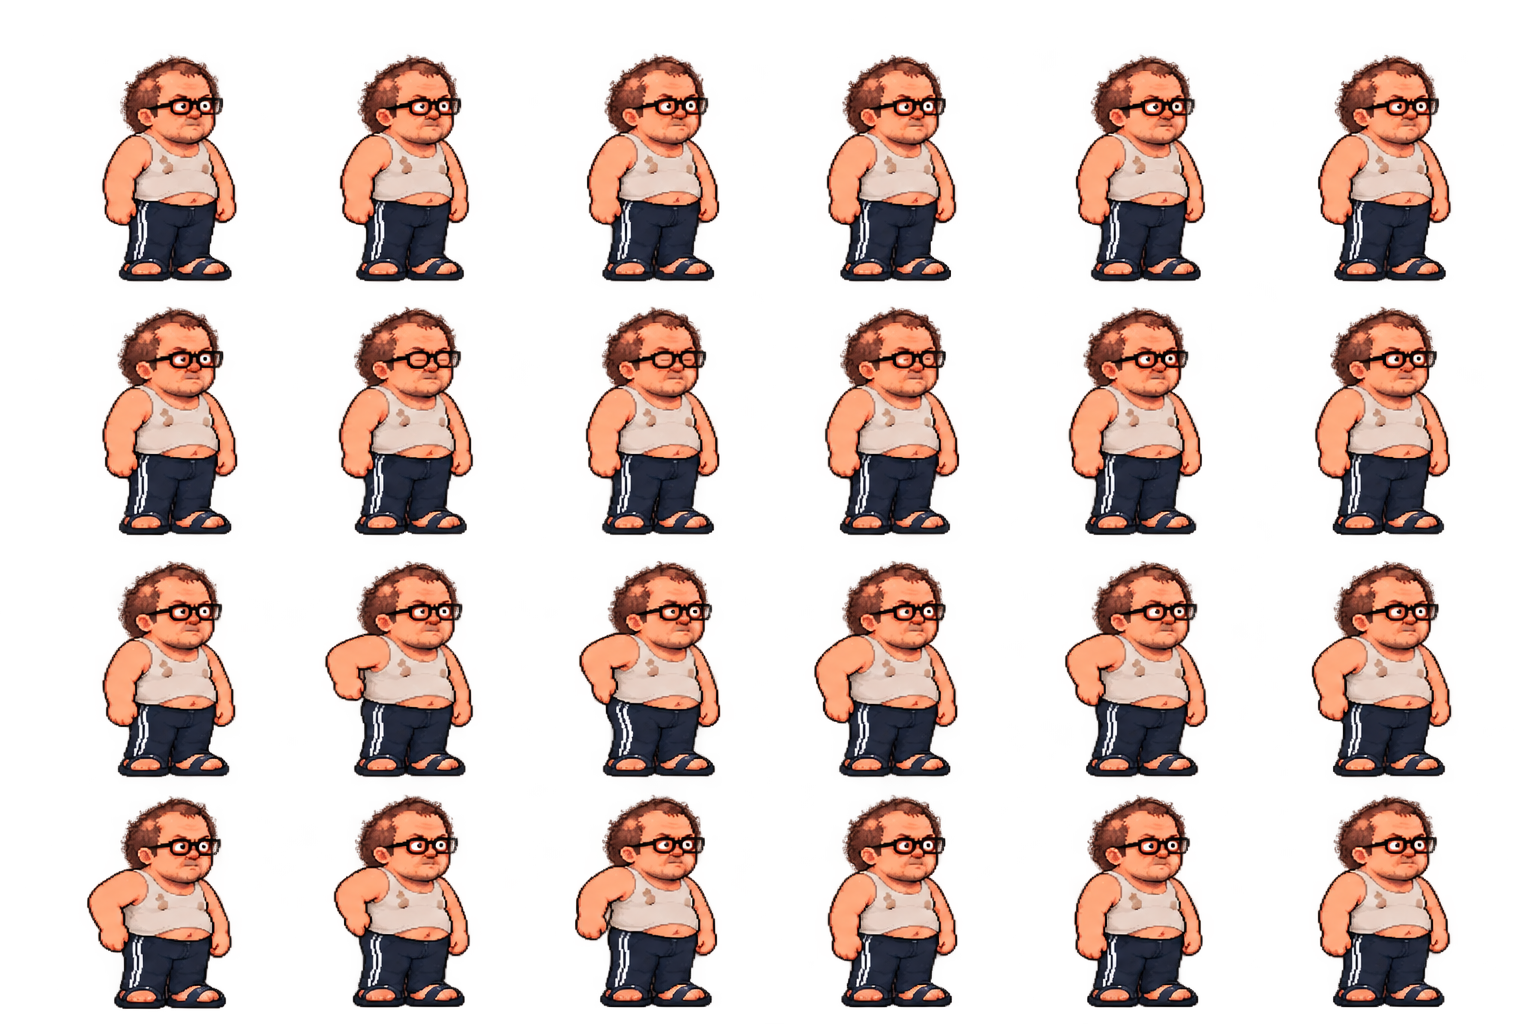
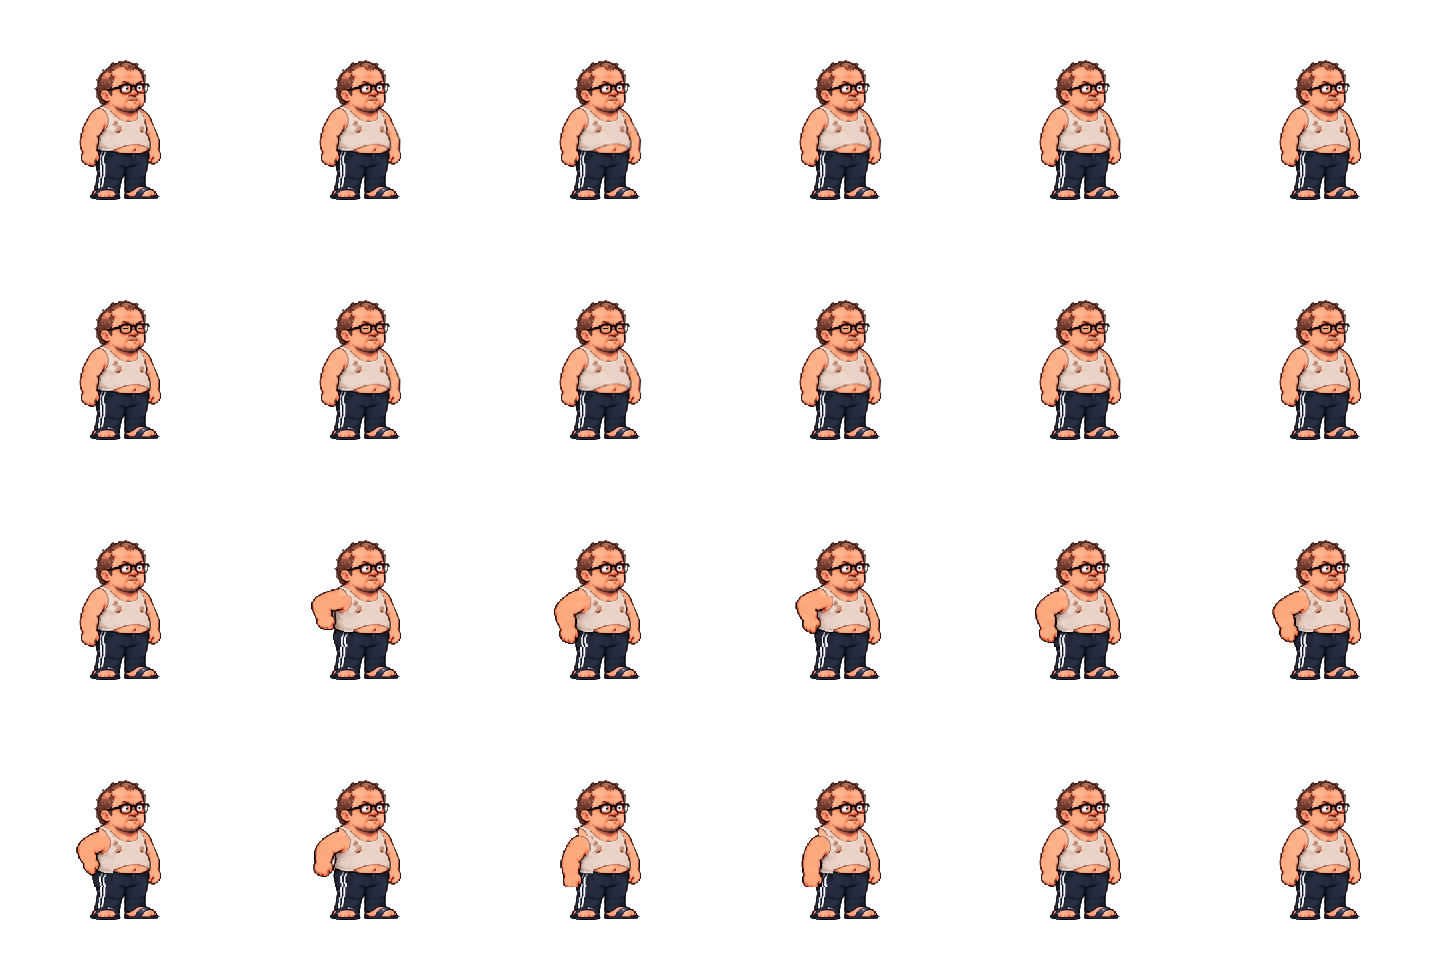
Статика: чистый лист дыхания и моргания, почёсывание убрано
Новый лист уже в ячейках 240 px и попиксельно согласован: дыхание 1–6,
моргание 7–12 (тот же кадр с закрытыми глазами). Режим native + center:
alpha в 0/255 и один общий сдвиг на 3 px влево, чтобы поза стояла как в
остальных листах (центр 117, ступни на 199; рост и ширина совпадают).
Ряды почёсывания не берём, анимация «Чесать жопу» удалена из движка,
кнопок и автожизни.

diff --git a/index.html b/index.html
@@ -9,7 +9,7 @@
 <div class="workspace"><section class="stage" aria-label="Анимационный экран"><div class="stage-top"><span><i class="dot"></i><span id="live">ЖИВЁТ СВОЮ ЖИЗНЬ</span></span><span>240 × 240 PX</span></div><div class="device"><canvas id="screen" width="240" height="240" aria-label="Игоряша в комнате"></canvas><div class="device-footer">SMALLTV PRO · ИГОРЯШГОЧИ</div></div><p class="scale-note">Персонаж ≈ 140 px · масштаб без сглаживания</p><div id="error" role="alert"></div></section>
 <aside><div class="intro"><div class="tag">Проверка спрайтшитов</div><h1>Один день Игоряши</h1><p>Пока ты смотришь, он занимается своими делами. Или выбери, чем ему заняться.</p></div>
 <div class="card"><div class="row"><div><div class="label">Сейчас</div><div id="status" class="status" aria-live="polite">Загружается…</div></div><span id="mode" class="mode">АВТО</span></div><div class="progress"><i id="progress"></i></div>
-<div class="actions"><button data-action="idle">Стоять <small>дышит и моргает</small></button><button data-action="scratch">Чесать жопу <small>чешет три раза</small></button><button data-action="walk">Походить <small>готовые 24 кадра</small></button><button data-action="hungry">Просить хинкал <small>стучит в экран</small></button><button data-action="eat">Поесть <small>похлёбка, три подхода</small></button><button data-action="sick">Заболеть <small>тошнит</small></button><button data-action="love">Акт любви <small>кукла, обнимашки, бах</small></button><button data-action="tanks">Танки <small>катка, потом победа или ярость</small></button><button data-action="poop">Посрать <small>готовые 16 кадров</small></button><button id="clean">Убрать <small>очистить пол</small></button></div>
+<div class="actions"><button data-action="idle">Стоять <small>дышит и моргает</small></button><button data-action="walk">Походить <small>готовые 24 кадра</small></button><button data-action="hungry">Просить хинкал <small>стучит в экран</small></button><button data-action="eat">Поесть <small>похлёбка, три подхода</small></button><button data-action="sick">Заболеть <small>тошнит</small></button><button data-action="love">Акт любви <small>кукла, обнимашки, бах</small></button><button data-action="tanks">Танки <small>катка, потом победа или ярость</small></button><button data-action="poop">Посрать <small>готовые 16 кадров</small></button><button id="clean">Убрать <small>очистить пол</small></button></div>
 <div class="toolbar"><button id="auto" class="secondary active" aria-pressed="true">Автожизнь</button><button id="pause" class="secondary" aria-pressed="false">Пауза</button><button id="step" class="secondary">Кадр →</button></div></div>
 <div class="card settings"><label>Скорость <span class="row"><input id="speed" type="range" min="0.25" max="2" step="0.25" value="1"><output id="speedValue">1×</output></span></label><label>Время суток<select id="light"><option value="auto">Авто · по часам</option><option value="morning">Утро</option><option value="day">День</option><option value="night">Ночь</option></select></label><label>Фон<select id="background"><option value="room">Комната</option><option value="gray">Серый</option><option value="light">Светлый</option><option value="dark">Тёмный</option><option value="checker">Прозрачность</option></select></label><label>Размер экрана<select id="zoom"><option value="1">240 px · 1×</option><option value="1.5" selected>360 px · 1.5×</option><option value="2">480 px · 2×</option></select></label><label>Сетка и линия пола<input id="grid" type="checkbox"></label><label>Реплики<input id="speech" type="checkbox" checked></label><label>Тряска экрана<input id="shake" type="checkbox" checked></label><div class="details"><span id="frame">кадр —</span><span>свет: <span id="lightNow">—</span></span><span id="poopCount">на полу: 0</span></div></div>
 <p class="hint">Спрайтшиты — PNG из <code>assets/sprites/</code>, собираются из <code>source/</code> скриптом <code>tools/build_sprites.py</code>. Кадр 240×240, ноги на линии пола. Кнопка действия отключает автожизнь.</p></aside></div>

diff --git a/js/animations.js b/js/animations.js
@@ -9,8 +9,8 @@
   const range = n => Array.from({ length: n }, (_, i) => i);
 
   const sheets = {
-    // 0–5 дыхание, 6–11 те же кадры с закрытыми глазами, 12–23 чешет жопу
-    idle:    { src: 'assets/sprites/idle.png',    cols: 6, frames: 24 },
+    // 0–5 дыхание, 6–11 те же кадры с закрытыми глазами
+    idle:    { src: 'assets/sprites/idle.png',    cols: 6, frames: 12 },
     hungry:  { src: 'assets/sprites/hungry.png',  cols: 4, frames: 16 },
     walk:    { src: 'assets/sprites/walk.png',    cols: 6, frames: 24 },
     poop:    { src: 'assets/sprites/poop.png',    cols: 4, frames: 16 },
@@ -25,7 +25,7 @@
   };
 
   // Статика: дышит кадрами 0–5 и иногда моргает. Кадр k+BLINK — это кадр
-  // дыхания k с пересаженными закрытыми веками, поэтому моргнуть можно на любой фазе.
+  // дыхания k с закрытыми глазами, поэтому моргнуть можно на любой фазе.
   const BREATH = [400, 300, 300, 400, 300, 300];
   const BLINK = 6, BLINK_MS = 100;
   function idleFrames(rand = Math.random) {
@@ -43,10 +43,6 @@
     }
     return frames;
   }
-  // Чешет жопу: заводит руку (12–13), чешет кадрами 14–17 три раза, опускает руку (18–23).
-  const scratchLoop = [14, 15, 16, 17];
-  const scratchSeq = [12, 13, ...scratchLoop, ...scratchLoop, ...scratchLoop, 18, 19, 20, 21, 22, 23];
-  const scratchMs = [300, 220, ...Array(12).fill(130), 220, 220, 200, 220, 260, 500];
   // Голод: стучит кулаком в экран (кадры 4–7) два раза подряд, потом показывает на рот и живот.
   const hungrySeq = [0, 1, 2, 3, 4, 5, 6, 7, 4, 5, 6, 7, 8, 9, 10, 11, 12, 13, 14, 15];
   const hungryMs = [600, 200, 200, 300, 160, 140, 160, 140, 160, 140, 160, 260,
@@ -86,12 +82,6 @@
       sheet: 'idle',
       build: idleFrames,   // кадры собираются заново на каждый показ
       phrases: ['Ну чо вы смотрите?', 'О_О', 'Я всё контролирую.', 'Ну стою. И шо?', 'Ой, не начинайте.'],
-    },
-    scratch: {
-      label: 'Чешет жопу',
-      sheet: 'idle',
-      frames: seq(scratchSeq, scratchMs),
-      phrases: ['Задумался.', 'Дела житейские.', 'Ой вей, чешется.', 'Ну а шо, имею право.'],
     },
     walk: {
       label: 'Нервно ходит туда-сюда',

diff --git a/js/app.js b/js/app.js
@@ -6,7 +6,7 @@ const canvas = $('screen'), ctx = canvas.getContext('2d');
 ctx.imageSmoothingEnabled = false;
 
 const assets = {};
-const autoQueue = ['scratch', 'walk', 'hungry', 'eat', 'poop', 'tanks', 'walk', 'love', 'sick', 'scratch'];
+const autoQueue = ['walk', 'hungry', 'eat', 'poop', 'tanks', 'walk', 'love', 'sick'];
 const MAX_PILES = 5;
 
 let state = 'idle', current = null, elapsed = 0, auto = true, paused = false, speed = 1, ready = false;
